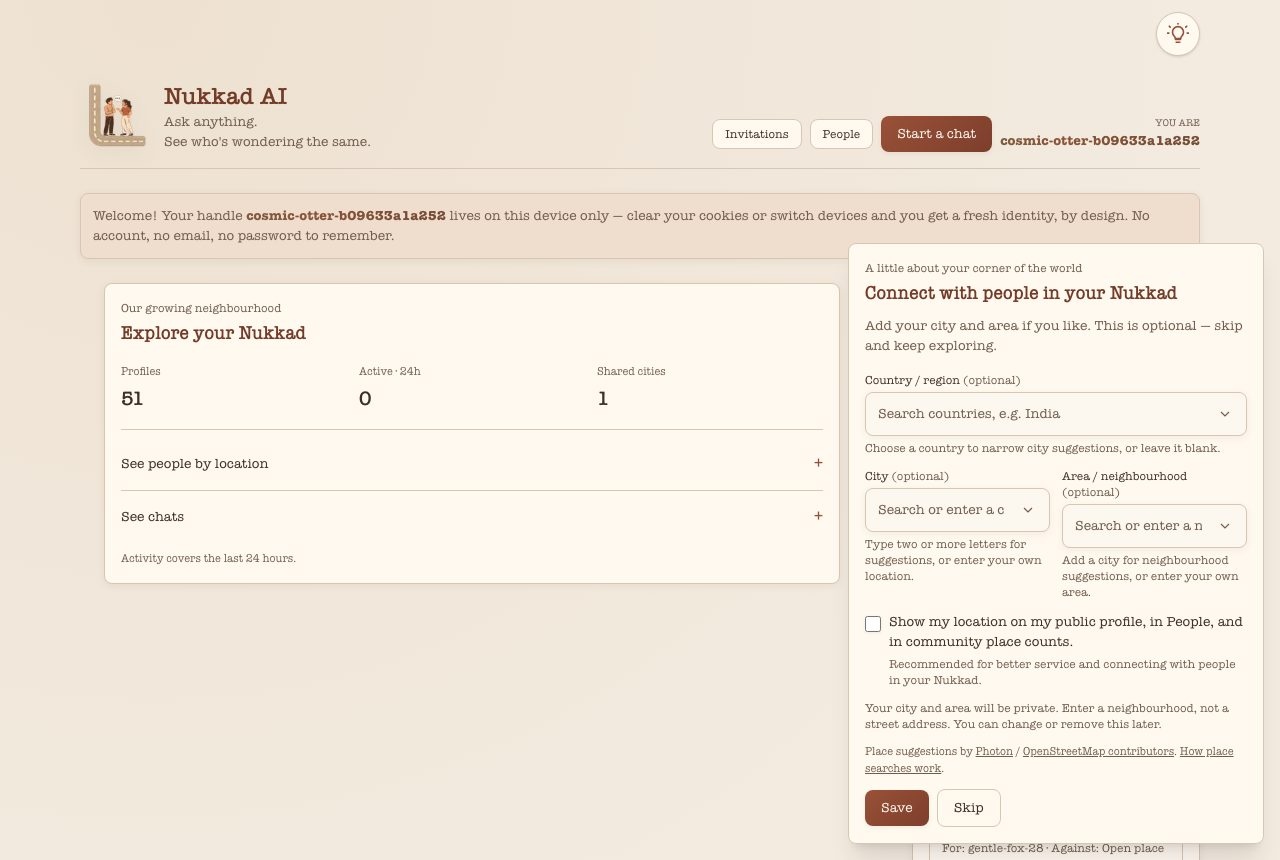
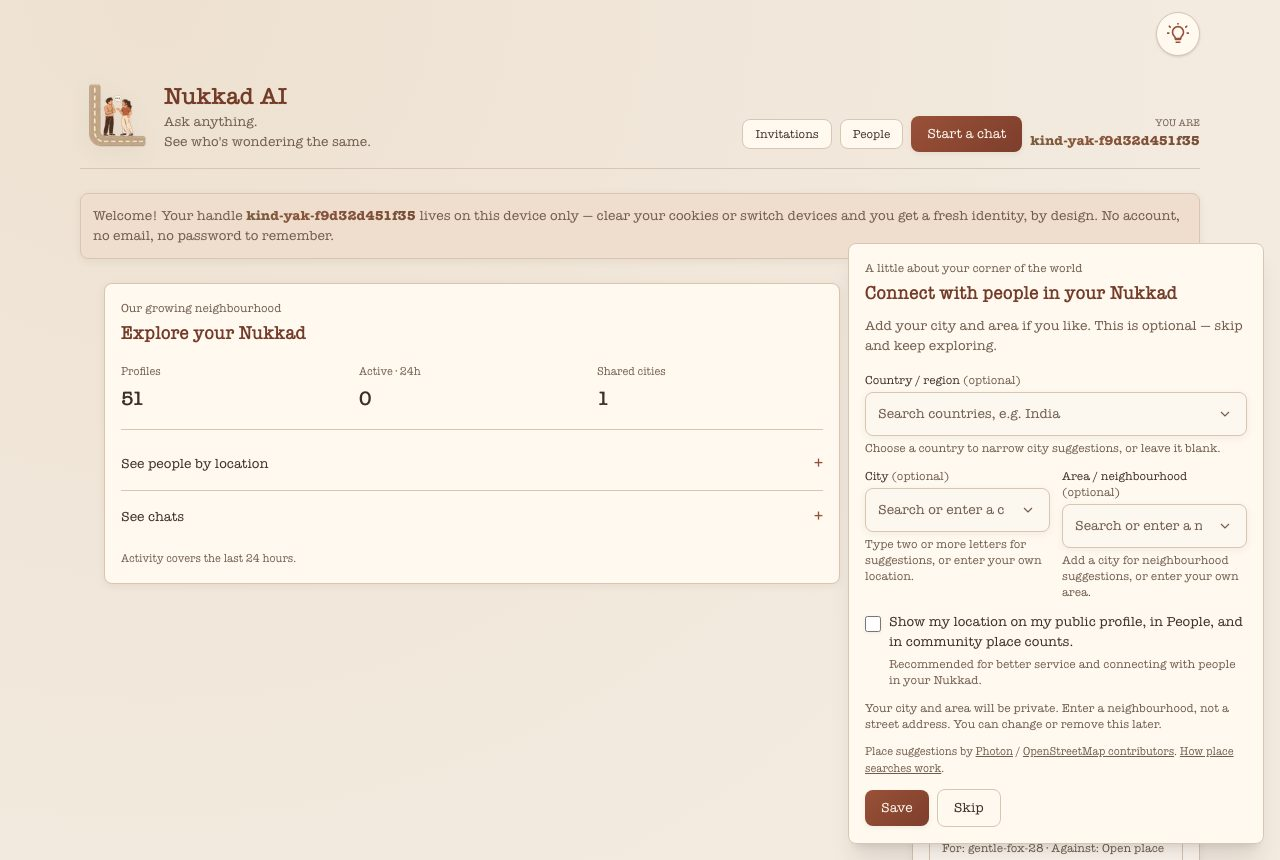
Point Nukkad AI at its new address

Changed region(s): [[0.0625, 0.2419, 0.9062, 0.3023], [0.5625, 0.1209, 0.9375, 0.1814]]

diff --git a/index.html b/index.html
@@ -203,7 +203,7 @@ const projects = [
     text: "Federated learning for Indian hospitals: train on many hospitals' data while every record stays in place, plus a DPDP compliance hub." },
   { repo: "doclaw-app", name: "DocLaw", kind: "Mobile app", img: "doclaw-app.png",
     text: "An offline PDF assistant for doctors and lawyers. It shows the exact text and highlights first, and explains only when asked, all on the device." },
-  { repo: "thinking-outside-the-box", name: "Nukkad AI", kind: "Web app", img: "thinking-outside-the-box.jpg", live: "https://thinking-outside-the-box.onrender.com/",
+  { repo: "thinking-outside-the-box", name: "Nukkad AI", kind: "Web app", img: "thinking-outside-the-box.jpg", live: "https://nukkadai.onrender.com/",
     text: "A public AI chat platform that shows you other people exploring the same topics as you, in real time." },
   { repo: "daily-mind", name: "Daily Mind", kind: "Web app", img: "daily-mind.png",
     text: "One prompt a day, anonymous public answers, and an AI summary at the end of the day. A companion to Nukkad AI." },
